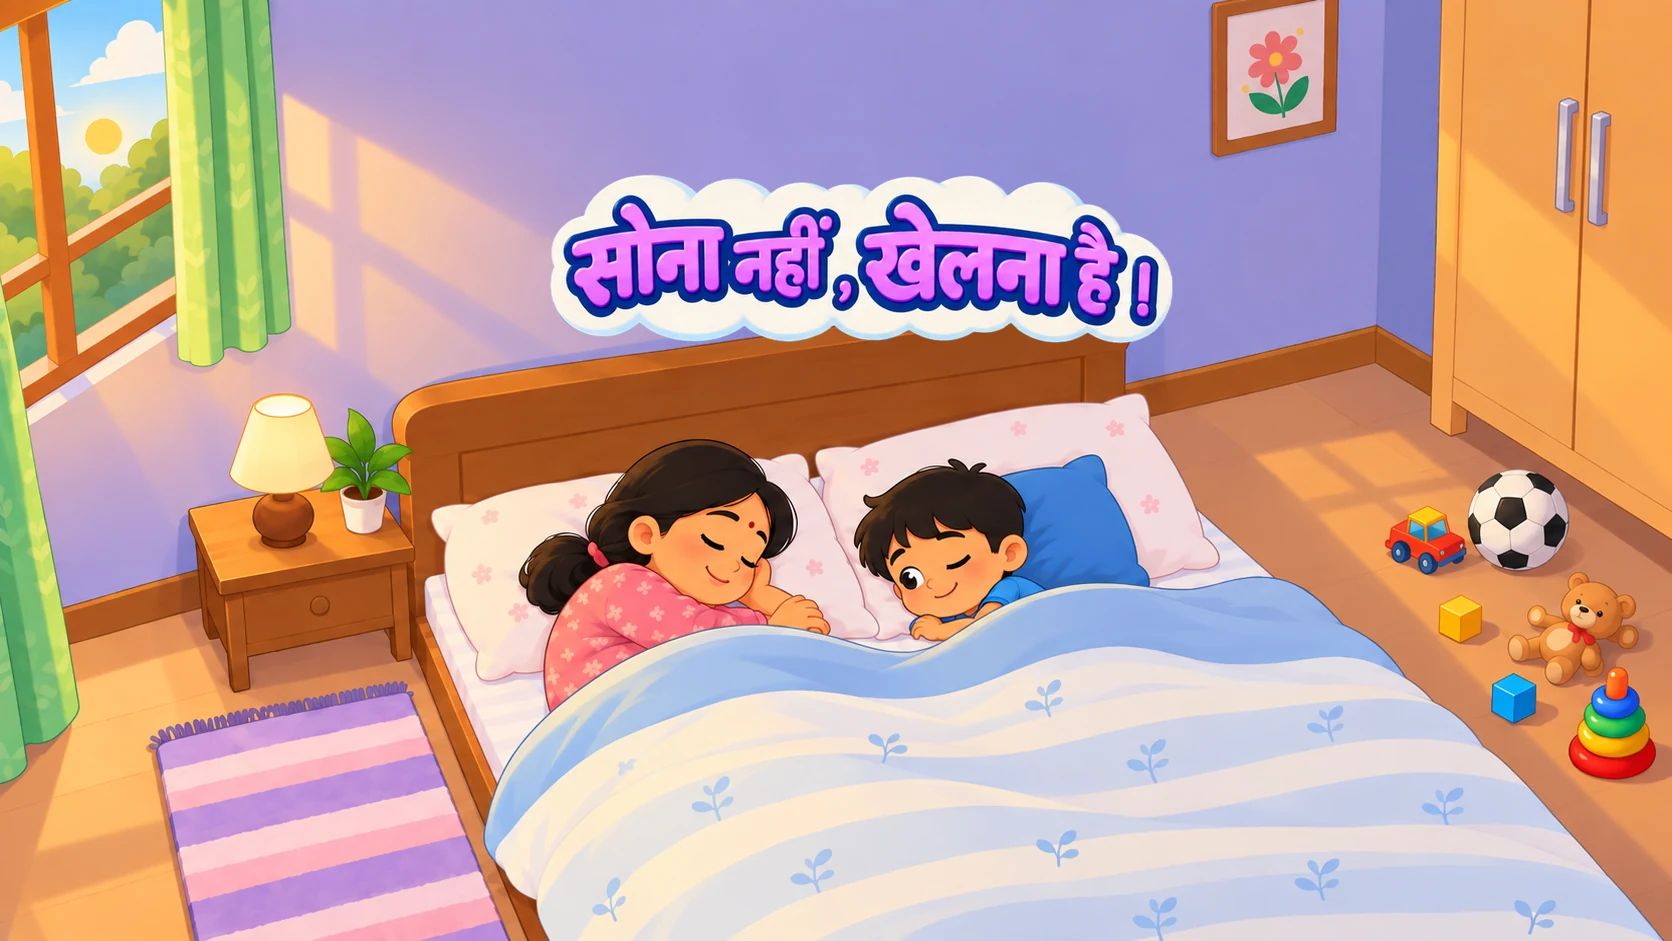
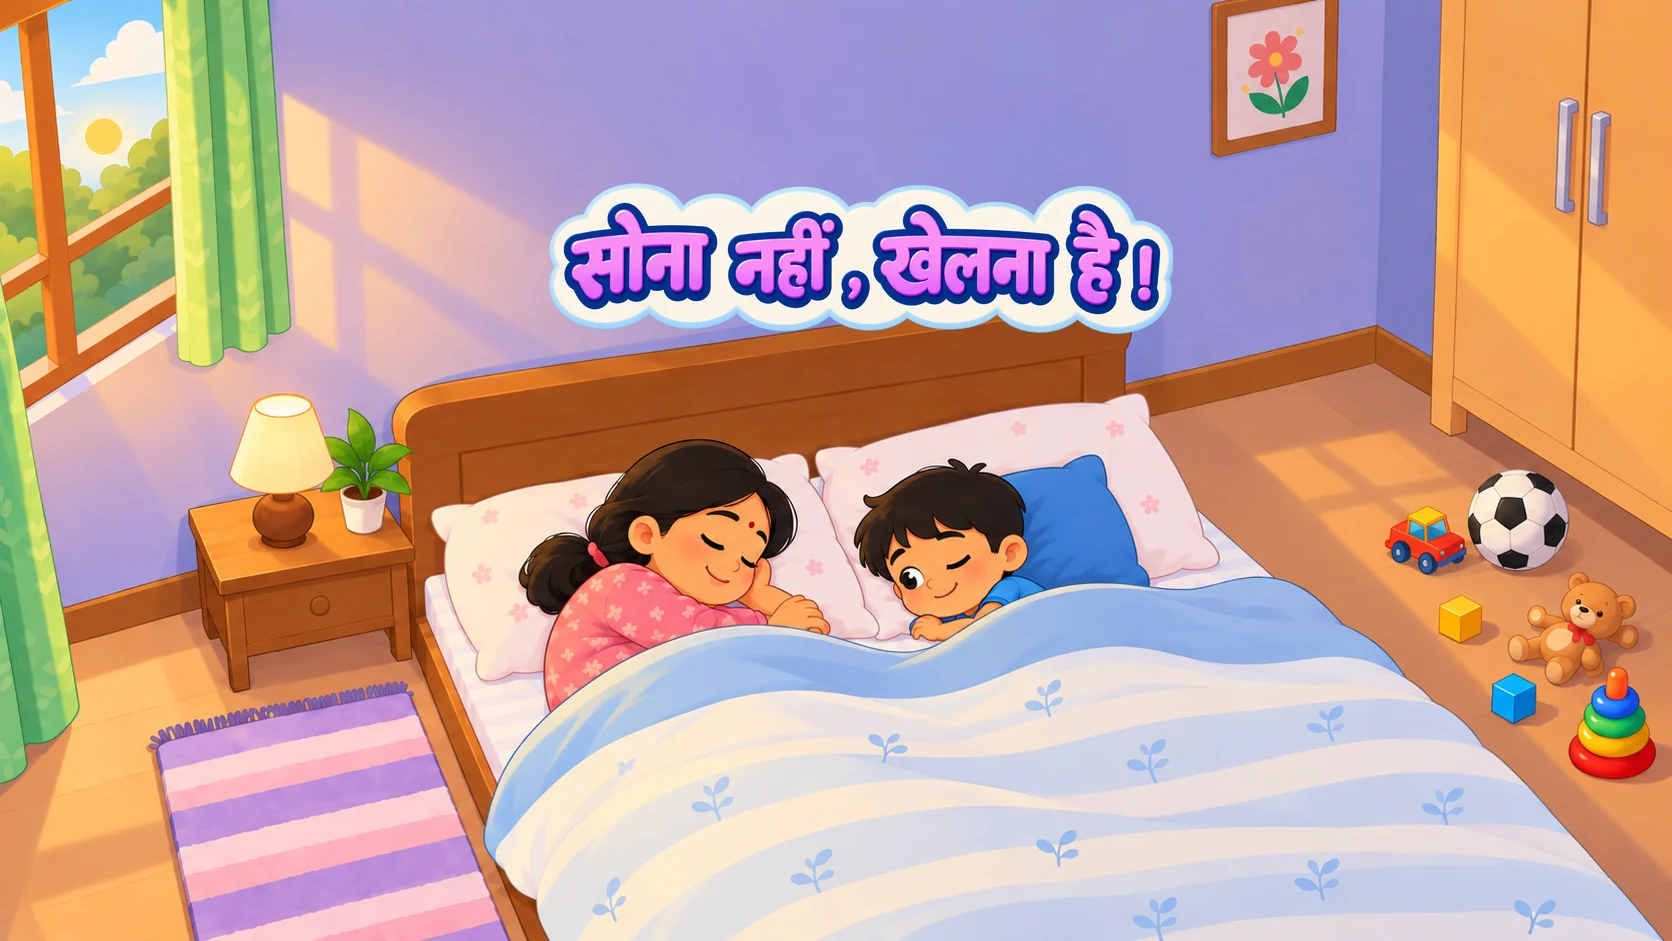
Update landing title image and adjust build script for new PNG source

Changed region(s): [[0.311, 0.1849, 0.7153, 0.3698]]

diff --git a/_reskin_build/build.py b/_reskin_build/build.py
@@ -359,20 +359,29 @@ card = json.loads(m.group(1))
 # offsets inside the 9px stroke ([L02-LANDING-PIC-2] in adapt.css: -18/-95; the design's -19 would leave the last column of the
 # stroke's box bare, so a 1px nudge). The old scene (landing_title.webp, the Figma 98-2 picture) leaves the dist; its source stays in
 # _reskin_build/landing_title_source.png. Nothing else on the page moves: the card box, the bird, the play button, the reveal.
+# [L02-LANDING-TITLE-3] (2026-10-16, user request) "At the title page replace the heading text with this png keeping the positioning and the
+# placement exactly the same as of now; rest keep everything exactly the same." The user's PNG (2170x725, RGBA: the same "सोना नहीं, खेलना
+# है !" lettering on its cream cloud at 3x, with transparent margins above and below) is kept as _reskin_build/landing2_title_source_2.png
+# and takes the sticker's place. Its visible part (alpha > 8: 2157x522, 4.13 wide for its height; the old sticker's was 725x196, 3.70) is
+# FITTED INSIDE the same 416x113 layer box at the same spot (contain, centred): the title keeps its width and its centre, the cloud comes out
+# a little shorter (416x101 layer px) than the old one. The scene, the box and everything else on the page are as they were.
 LANDING_PIC = "assets/Images/landing_title_2.webp"
 _L2_SCENE = os.path.join(os.path.dirname(os.path.abspath(__file__)), "landing2_scene_source.png")
-_L2_TITLE = os.path.join(os.path.dirname(os.path.abspath(__file__)), "landing2_title_source.png")
+_L2_TITLE = os.path.join(os.path.dirname(os.path.abspath(__file__)), "landing2_title_source_2.png")   # [L02-LANDING-TITLE-3]; landing2_title_source.png = the Figma sticker, kept
 _L2_DST = os.path.join(CUR, LANDING_PIC)
 assert os.path.exists(_L2_SCENE) and os.path.exists(_L2_TITLE), "[L02-LANDING-PIC-2] missing sources"
-if not os.path.exists(_L2_DST) or os.path.getmtime(_L2_DST) < max(os.path.getmtime(_L2_SCENE), os.path.getmtime(_L2_TITLE)):
+if not os.path.exists(_L2_DST) or os.path.getmtime(_L2_DST) < max(os.path.getmtime(_L2_SCENE), os.path.getmtime(_L2_TITLE), os.path.getmtime(os.path.abspath(__file__))):
     from PIL import Image as _Img
     _scene = _Img.open(_L2_SCENE).convert("RGB"); _sticker = _Img.open(_L2_TITLE).convert("RGBA")
     _S = _scene.size[0] / 1114.0                                     # the scene's pixels per layer px (1.5)
     assert abs(_scene.size[1] / 627.0 - _S) < 0.01, _scene.size
-    _st = _sticker.resize((round(416 * _S), round(113 * _S)), _Img.LANCZOS)
-    _scene.paste(_st, (round(366 * _S), round(116 * _S)), _st)     # the sticker at card (356,30) = picture (366,116), 416x113
+    _bb = _sticker.split()[3].point(lambda v: 255 if v > 8 else 0).getbbox(); _sticker = _sticker.crop(_bb)   # [L02-LANDING-TITLE-3] the visible art
+    _BW, _BH = round(416 * _S), round(113 * _S); _k = min(_BW / _sticker.width, _BH / _sticker.height)
+    _w, _h = round(_sticker.width * _k), round(_sticker.height * _k)
+    _st = _sticker.resize((_w, _h), _Img.LANCZOS)
+    _scene.paste(_st, (round(366 * _S) + (_BW - _w) // 2, round(116 * _S) + (_BH - _h) // 2), _st)   # contain, centred in the sticker's box: card (356,30) = picture (366,116), 416x113
     _scene.save(_L2_DST, "WEBP", quality=88, method=6)
-    print("wrote", _L2_DST, _scene.size)
+    print("wrote", _L2_DST, _scene.size, "title art", (_w, _h), "in the", (_BW, _BH), "box, crop", _bb)
 assert os.path.exists(_L2_DST), "missing " + LANDING_PIC
 for s in card["slides"]:
     if s["type"] == "STORY_READ_PAGE": s["caption_chip"] = True
